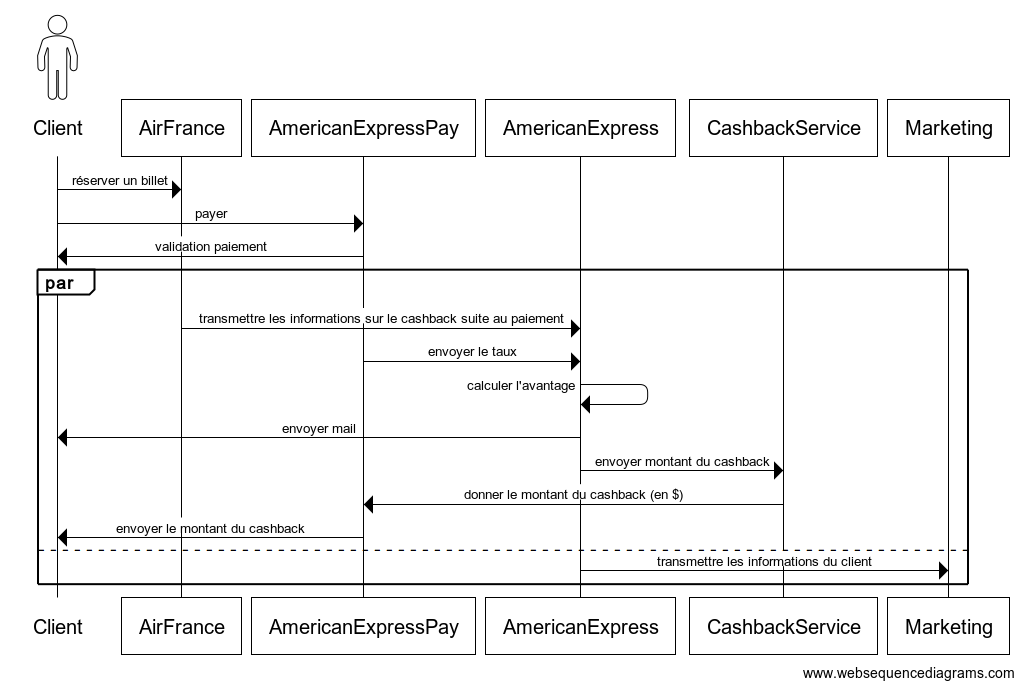
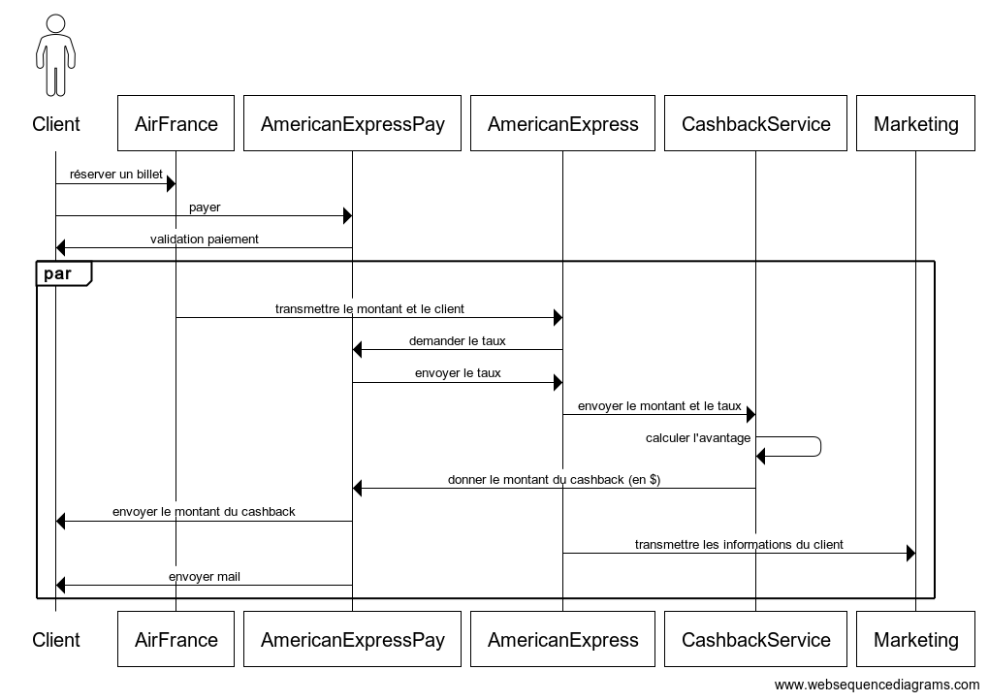
update readme

diff --git a/readme.md b/readme.md
@@ -26,14 +26,15 @@ Client -> AmericanExpressPay : payer
 AmericanExpressPay -> Client : validation paiement 
 
 par 
-AirFrance -> AmericanExpress : transmettre les informations sur le cashback suite au paiement
+AirFrance -> AmericanExpress : transmettre le montant et le client
+AmericanExpress -> AmericanExpressPay : demander le taux 
 AmericanExpressPay -> AmericanExpress : envoyer le taux
-AmericanExpress -> AmericanExpress : calculer l'avantage
-AmericanExpress -> Client : envoyer mail 
-AmericanExpress -> CashbackService : envoyer montant du cashback
+AmericanExpress -> CashbackService : envoyer le montant et le taux 
+CashbackService -> CashbackService   : calculer l'avantage
 CashbackService -> AmericanExpressPay : donner le montant du cashback (en $)
 AmericanExpressPay -> Client : envoyer le montant du cashback
 AmericanExpress -> Marketing : transmettre les informations du client
+AmericanExpressPay -> Client : envoyer mail
 end 
 ```
 ![](sequenceDiag.png)
